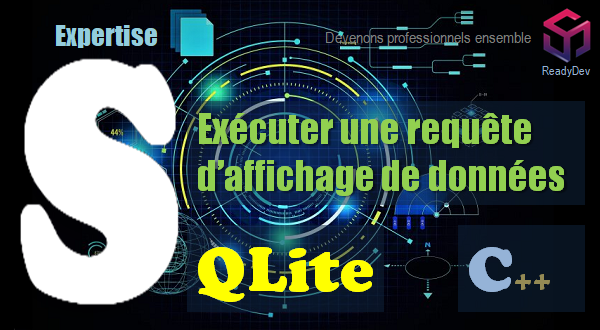
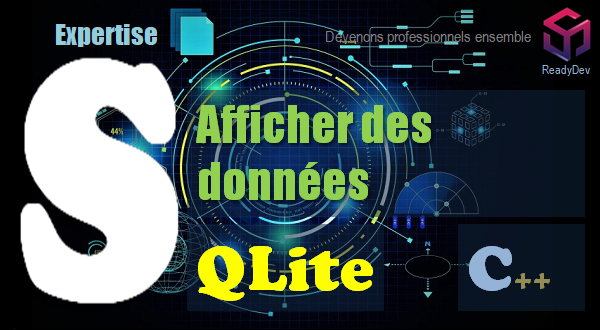
Initial Commit

diff --git a/Tutoriels/Cpp/SQLite/Show_Query/page/main.php b/Tutoriels/Cpp/SQLite/Show_Query/page/main.php
@@ -1,4 +1,4 @@
-<div class="Parallax GParallax1"><div class="Img Binary"><div class="Caption"><a href="#"><div class="Text">Exécuter une requête d'affichage de données SQLite en C++</div></a></div></div><div class="Body2 Orange">Le but de ce tutoriel est de vous apprendre à exécuter une requête d'affichage de données <b>SQLite </b>en <b>C++</b>.<br>Version Pro &amp; Industrielle. Produit par <b>Gérard KESSE</b>.<br><br><div class="Content0 GSummary1"><div class="Body0" id="Loader_1529412976174"><div class="Row26">Summary 1</div></div><script>loadSummary1("Loader_1529412976174");</script></div></div></div><br><div class="Content2 GTitle1"><div class="MainBlock2"><div class="Content"><h1 class="Title2 Center" id="Introduction"><a class="Link3" href="#">Introduction</a></h1><div class="Body3"><b>SQLite </b>est une bibliothèque écrite en langage C qui propose un moteur de base de données relationnelle accessible par le langage SQL. SQLite implémente en grande partie le standard SQL-92 et des propriétés ACID. Sa particularité est de ne pas reproduire le schéma habituel client-serveur mais d'être directement intégrée aux programmes. L'intégralité de la base de données (déclarations, tables, index et données) est stockée dans un fichier indépendant de la plateforme.<br><br><div class="Img3 GImage"><img src="/Tutoriels/Cpp/img/b_sqlite_show_query.png" alt="/Tutoriels/Cpp/img/b_sqlite_show_query.png"></div><br></div></div></div></div><br><div class="Content2 GTitle1"><div class="MainBlock2"><div class="Content"><h1 class="Title2 Center" id="Exécuter une requête d'affichage de données SQLite C++"><a class="Link3" href="#">Exécuter une requête d'affichage de données SQLite C++</a></h1><div class="Body3"><br><div class="Content0 GSummary2"><div class="Body0" id="Loader_1599250744051"><div class="Row26">Summary 2</div></div><script>loadSummary2("Loader_1599250744051");</script></div><br><h2 class="Title7 GTitle2" id="Exécuter une requête d'affichage de données SQLite C++-Introduction"><a class="Link9" href="#Exécuter une requête d'affichage de données SQLite C++">Introduction</a></h2><br>Dans l'exemple qui suit, nous essayons d'exécuter une requête d'affichage de données SQLite (CONFIG_CPP).<br><br><h2 class="Title7 GTitle2" id="Exécuter une requête d'affichage de données SQLite C++-Programme principal"><a class="Link9" href="#Exécuter une requête d'affichage de données SQLite C++">Programme principal</a></h2><br><h3 class="Title8 GTitle3">main.cpp</h3><br><div class="GCode1"><pre class="Code2"><xmp class="AceCode" data-mode="c_cpp">GSQLite::Instance()-&gt;queryShow("\
+<div class="Parallax GParallax1"><div class="Img Binary"><div class="Caption"><a href="#"><div class="Text">Afficher des données SQLite en C++</div></a></div></div><div class="Body2 Orange">Le but de ce tutoriel est de vous apprendre à afficher des données <b>SQLite </b>en <b>C++</b>.<br>Version Pro &amp; Industrielle. Produit par <b>Gérard KESSE</b>.<br><br><div class="Content0 GSummary1"><div class="Body0" id="Loader_1529412976174"><div class="Row26">Summary 1</div></div><script>loadSummary1("Loader_1529412976174");</script></div></div></div><br><div class="Content2 GTitle1"><div class="MainBlock2"><div class="Content"><h1 class="Title2 Center" id="Introduction"><a class="Link3" href="#">Introduction</a></h1><div class="Body3"><b>SQLite </b>est une bibliothèque écrite en langage C qui propose un moteur de base de données relationnelle accessible par le langage SQL. SQLite implémente en grande partie le standard SQL-92 et des propriétés ACID. Sa particularité est de ne pas reproduire le schéma habituel client-serveur mais d'être directement intégrée aux programmes. L'intégralité de la base de données (déclarations, tables, index et données) est stockée dans un fichier indépendant de la plateforme.<br><br><div class="Img3 GImage"><img src="/Tutoriels/Cpp/img/b_sqlite_show_query.png" alt="/Tutoriels/Cpp/img/b_sqlite_show_query.png"></div><br></div></div></div></div><br><div class="Content2 GTitle1"><div class="MainBlock2"><div class="Content"><h1 class="Title2 Center" id="Afficher des données SQLite C++"><a class="Link3" href="#">Afficher des données SQLite C++</a></h1><div class="Body3"><br><div class="Content0 GSummary2"><div class="Body0" id="Loader_1599250744051"><div class="Row26">Summary 2</div></div><script>loadSummary2("Loader_1599250744051");</script></div><br><h2 class="Title7 GTitle2" id="Afficher des données SQLite C++-Introduction"><a class="Link9" href="#Afficher des données SQLite C++">Introduction</a></h2><br>Dans l'exemple qui suit, nous essayons d'afficher des données SQLite (afficher les données de la table CONFIG_CPP).<br><br><h2 class="Title7 GTitle2" id="Afficher des données SQLite C++-Programme principal"><a class="Link9" href="#Afficher des données SQLite C++">Programme principal</a></h2><br><h3 class="Title8 GTitle3">main.cpp</h3><br><div class="GCode1"><pre class="Code2"><xmp class="AceCode" data-mode="c_cpp">GSQLite::Instance()-&gt;queryShow("\
 select * from CONFIG_CPP \
 order by CONFIG_KEY \
 ", 1, "20;30", "20");</xmp></pre></div><br><h3 class="Title8 GTitle3">GSQLite.cpp</h3><br><div class="GCode1"><pre class="Code2"><xmp class="AceCode" data-mode="c_cpp">//===============================================
@@ -9,14 +9,14 @@ struct _sGSQLiteShow {
     int on_sep;
     int col_count;
 };
-//===============================================</xmp></pre></div><br><h2 class="Title7 GTitle2" id="Exécuter une requête d'affichage de données SQLite C++-Affichage d'une requête"><a class="Link9" href="#Exécuter une requête d'affichage de données SQLite C++">Affichage d'une requête</a></h2><br><h3 class="Title8 GTitle3">GSQLite.cpp</h3><br><div class="GCode1"><pre class="Code2"><xmp class="AceCode" data-mode="c_cpp">//===============================================
+//===============================================</xmp></pre></div><br><h2 class="Title7 GTitle2" id="Afficher des données SQLite C++-Affichage des données"><a class="Link9" href="#Afficher des données SQLite C++">Affichage des données</a></h2><br><h3 class="Title8 GTitle3">GSQLite.cpp</h3><br><div class="GCode1"><pre class="Code2"><xmp class="AceCode" data-mode="c_cpp">//===============================================
 void GSQLite::queryShow(std::string sql, int onHeader, std::string widthMap, std::string defaultWidth) {
     sGSQLiteShow lParams = {onHeader, widthMap, defaultWidth, 1, 0};
     sqlite3* lDb = connect();
     char* lError;
     int lAns = sqlite3_exec(lDb, sql.c_str(), onShow, &lParams, &lError);
     if(lAns != SQLITE_OK) {
-        printf("[GSQLite] erreur queryShow : %s\n", sqlite3_errmsg(lDb));
+        printf("[GSQLite] error queryShow() : %s\n", sqlite3_errmsg(lDb));
         sqlite3_free(lError);
         exit(0); 
     }
@@ -32,7 +32,7 @@ void GSQLite::queryShow(std::string sql, int onHeader, std::string widthMap, std
         printf("\n");
     }
 }
-//===============================================</xmp></pre></div><br><h2 class="Title7 GTitle2" id="Exécuter une requête d'affichage de données SQLite C++-Fonction de rappel"><a class="Link9" href="#Exécuter une requête d'affichage de données SQLite C++">Fonction de rappel</a></h2><br><h3 class="Title8 GTitle3">GSQLite.cpp</h3><br><div class="GCode1"><pre class="Code2"><xmp class="AceCode" data-mode="c_cpp">//===============================================
+//===============================================</xmp></pre></div><br><h2 class="Title7 GTitle2" id="Afficher des données SQLite C++-Fonction de rappel"><a class="Link9" href="#Afficher des données SQLite C++">Fonction de rappel</a></h2><br><h3 class="Title8 GTitle3">GSQLite.cpp</h3><br><div class="GCode1"><pre class="Code2"><xmp class="AceCode" data-mode="c_cpp">//===============================================
 int GSQLite::onShow(void* params, int colCount, char** colValue, char** colName) {
     sGSQLiteShow* lParams = (sGSQLiteShow*)params;
     std::string lWidthMap = lParams-&gt;width_map;
@@ -80,4 +80,4 @@ int GSQLite::onShow(void* params, int colCount, char** colValue, char** colName)
     lParams-&gt;on_sep = 0;
     return 0;
 }
-//===============================================</xmp></pre></div><br><h2 class="Title7 GTitle2" id="Exécuter une requête d'affichage de données SQLite C++-Résultat"><a class="Link9" href="#Exécuter une requête d'affichage de données SQLite C++">Résultat</a></h2><br><div class="Img3 GImage"><img src="/Tutoriels/Cpp/img/i_sqlite_show_query.png" alt="/Tutoriels/Cpp/img/i_sqlite_show_query.png"></div><br></div></div></div></div><br><div class="Content2 GTitle1"><div class="MainBlock2"><div class="Content"><h1 class="Title2 Center" id="Voir Aussi"><a class="Link3" href="#">Voir Aussi</a></h1><div class="Body3">Dans cette même catégorie, vous pouvez consulter aussi :<br><br><span class="GColor1" style="color:lime;">Base de données SQLite</span><br><br><div class="Content0 GList1"><div class="Body0" id="Loader_1600474250946"><div class="Row26">List 1 &gt; Cpp &gt; sqlite</div></div><script>loadList1("Loader_1600474250946","Cpp","sqlite");</script></div><br></div></div></div></div><br>
+//===============================================</xmp></pre></div><br><h2 class="Title7 GTitle2" id="Afficher des données SQLite C++-Résultat"><a class="Link9" href="#Afficher des données SQLite C++">Résultat</a></h2><br><div class="Img3 GImage"><img src="/Tutoriels/Cpp/img/i_sqlite_show_query.png" alt="/Tutoriels/Cpp/img/i_sqlite_show_query.png"></div><br></div></div></div></div><br><div class="Content2 GTitle1"><div class="MainBlock2"><div class="Content"><h1 class="Title2 Center" id="Voir Aussi"><a class="Link3" href="#">Voir Aussi</a></h1><div class="Body3">Dans cette même catégorie, vous pouvez consulter aussi :<br><br><span class="GColor1" style="color:lime;">Base de données SQLite</span><br><br><div class="Content0 GList1"><div class="Body0" id="Loader_1600474250946"><div class="Row26">List 1 &gt; Cpp &gt; sqlite</div></div><script>loadList1("Loader_1600474250946","Cpp","sqlite");</script></div><br></div></div></div></div><br>

diff --git a/Tutoriels/Cpp/SQLite/Write/page/main.php b/Tutoriels/Cpp/SQLite/Write/page/main.php
@@ -1,4 +1,18 @@
-<div class="Parallax GParallax1"><div class="Img Binary"><div class="Caption"><a href="#"><div class="Text">Afficher les données d'une table SQLite en C++</div></a></div></div><div class="Body2 Orange">Le but de ce tutoriel est de vous apprendre à afficher les données d'une table <b>SQLite </b>en <b>C++</b>.<br>Version Pro &amp; Industrielle. Produit par <b>Gérard KESSE</b>.<br><br><div class="Content0 GSummary1"><div class="Body0" id="Loader_1529412976174"><div class="Row26">Summary 1</div></div><script>loadSummary1("Loader_1529412976174");</script></div></div></div><br><div class="Content2 GTitle1"><div class="MainBlock2"><div class="Content"><h1 class="Title2 Center" id="Introduction"><a class="Link3" href="#">Introduction</a></h1><div class="Body3"><b>SQLite </b>est une bibliothèque écrite en langage C qui propose un moteur de base de données relationnelle accessible par le langage SQL. SQLite implémente en grande partie le standard SQL-92 et des propriétés ACID. Sa particularité est de ne pas reproduire le schéma habituel client-serveur mais d'être directement intégrée aux programmes. L'intégralité de la base de données (déclarations, tables, index et données) est stockée dans un fichier indépendant de la plateforme.<br><br><div class="Img3 GImage"><img src="/Tutoriels/Cpp/img/b_sqlite_show.png" alt="/Tutoriels/Cpp/img/b_sqlite_show.png"></div><br></div></div></div></div><br><div class="Content2 GTitle1"><div class="MainBlock2"><div class="Content"><h1 class="Title2 Center" id="Afficher les données d'une table SQLite C++"><a class="Link3" href="#">Afficher les données d'une table SQLite C++</a></h1><div class="Body3"><br><div class="Content0 GSummary2"><div class="Body0" id="Loader_1599250744051"><div class="Row26">Summary 2</div></div><script>loadSummary2("Loader_1599250744051");</script></div><br><h2 class="Title7 GTitle2" id="Afficher les données d'une table SQLite C++-Introduction"><a class="Link9" href="#Afficher les données d'une table SQLite C++">Introduction</a></h2><br>Dans l'exemple qui suit, nous essayons d'afficher les données d'une table SQLite (CONFIG_CPP).<br><br><h2 class="Title7 GTitle2" id="Afficher les données d'une table SQLite C++-Programme principal"><a class="Link9" href="#Afficher les données d'une table SQLite C++">Programme principal</a></h2><br><h3 class="Title8 GTitle3">main.cpp</h3><br><div class="GCode1"><pre class="Code2"><xmp class="AceCode" data-mode="c_cpp">GSQLite::Instance()-&gt;queryShow("\
-select * from CONFIG_CPP \
-order by CONFIG_KEY \
-", 1, "20;30", "20");</xmp></pre></div><br><h2 class="Title7 GTitle2" id="Afficher les données d'une table SQLite C++-Résultat"><a class="Link9" href="#Afficher les données d'une table SQLite C++">Résultat</a></h2><br><div class="Img3 GImage"><img src="/Tutoriels/Cpp/img/i_sqlite_show.png" alt="/Tutoriels/Cpp/img/i_sqlite_show.png"></div><br></div></div></div></div><br><div class="Content2 GTitle1"><div class="MainBlock2"><div class="Content"><h1 class="Title2 Center" id="Voir Aussi"><a class="Link3" href="#">Voir Aussi</a></h1><div class="Body3">Dans cette même catégorie, vous pouvez consulter aussi :<br><br><span class="GColor1" style="color:lime;">Base de données SQLite</span><br><br><div class="Content0 GList1"><div class="Body0" id="Loader_1600474250946"><div class="Row26">List 1 &gt; Cpp &gt; sqlite</div></div><script>loadList1("Loader_1600474250946","Cpp","sqlite");</script></div><br></div></div></div></div><br>
+<div class="Parallax GParallax1"><div class="Img Binary"><div class="Caption"><a href="#"><div class="Text">Ecrire des données SQLite en C++</div></a></div></div><div class="Body2 Orange">Le but de ce tutoriel est de vous apprendre à écrire des données <b>SQLite </b>en <b>C++</b>.<br>Version Pro &amp; Industrielle. Produit par <b>Gérard KESSE</b>.<br><br><div class="Content0 GSummary1"><div class="Body0" id="Loader_1529412976174"><div class="Row26">Summary 1</div></div><script>loadSummary1("Loader_1529412976174");</script></div></div></div><br><div class="Content2 GTitle1"><div class="MainBlock2"><div class="Content"><h1 class="Title2 Center" id="Introduction"><a class="Link3" href="#">Introduction</a></h1><div class="Body3"><b>SQLite </b>est une bibliothèque écrite en langage C qui propose un moteur de base de données relationnelle accessible par le langage SQL. SQLite implémente en grande partie le standard SQL-92 et des propriétés ACID. Sa particularité est de ne pas reproduire le schéma habituel client-serveur mais d'être directement intégrée aux programmes. L'intégralité de la base de données (déclarations, tables, index et données) est stockée dans un fichier indépendant de la plateforme.<br><br><div class="Img3 GImage"><img src="/Tutoriels/Cpp/img/b_sqlite_write.png" alt="/Tutoriels/Cpp/img/b_sqlite_write.png"></div><br></div></div></div></div><br><div class="Content2 GTitle1"><div class="MainBlock2"><div class="Content"><h1 class="Title2 Center" id="Ecrire des données SQLite C++"><a class="Link3" href="#">Ecrire des données SQLite C++</a></h1><div class="Body3"><br><div class="Content0 GSummary2"><div class="Body0" id="Loader_1599250744051"><div class="Row26">Summary 2</div></div><script>loadSummary2("Loader_1599250744051");</script></div><br><h2 class="Title7 GTitle2" id="Ecrire des données SQLite C++-Introduction"><a class="Link9" href="#Ecrire des données SQLite C++">Introduction</a></h2><br>Dans l'exemple qui suit, nous essayons d'écrire des données SQLite (créer la table CONFIG_CPP).<br><br><h2 class="Title7 GTitle2" id="Ecrire des données SQLite C++-Programme principal"><a class="Link9" href="#Ecrire des données SQLite C++">Programme principal</a></h2><br><h3 class="Title8 GTitle3">main.cpp</h3><br><div class="GCode1"><pre class="Code2"><xmp class="AceCode" data-mode="c_cpp">GSQLite::Instance()-&gt;queryWrite("\
+create table CONFIG_CPP ( \
+CONFIG_KEY text unique not null, \
+CONFIG_VALUE text\
+)\
+");</xmp></pre></div><br><h2 class="Title7 GTitle2" id="Ecrire des données SQLite C++-Ecriture des données"><a class="Link9" href="#Ecrire des données SQLite C++">Ecriture des données</a></h2><br><h3 class="Title8 GTitle3">GSQLite.cpp</h3><br><div class="GCode1"><pre class="Code2"><xmp class="AceCode" data-mode="c_cpp">//===============================================
+void GSQLite::queryWrite(std::string sql) {
+    sqlite3* lDb = connect();
+    char* lError;
+    int lAns = sqlite3_exec(lDb, sql.c_str(), 0, 0, &lError);
+    if(lAns != SQLITE_OK) {
+        printf("[GSQLite] error queryWrite() : %s\n", sqlite3_errmsg(lDb));
+        sqlite3_free(lError);
+        exit(0); 
+    }
+    sqlite3_close(lDb);
+}
+//===============================================</xmp></pre></div><br><h2 class="Title7 GTitle2" id="Ecrire des données SQLite C++-Résultat"><a class="Link9" href="#Ecrire des données SQLite C++">Résultat</a></h2><br><div class="Img3 GImage"><img src="/Tutoriels/Cpp/img/i_sqlite_write.png" alt="/Tutoriels/Cpp/img/i_sqlite_write.png"></div><br></div></div></div></div><br><div class="Content2 GTitle1"><div class="MainBlock2"><div class="Content"><h1 class="Title2 Center" id="Voir Aussi"><a class="Link3" href="#">Voir Aussi</a></h1><div class="Body3">Dans cette même catégorie, vous pouvez consulter aussi :<br><br><span class="GColor1" style="color:lime;">Base de données SQLite</span><br><br><div class="Content0 GList1"><div class="Body0" id="Loader_1600474250946"><div class="Row26">List 1 &gt; Cpp &gt; sqlite</div></div><script>loadList1("Loader_1600474250946","Cpp","sqlite");</script></div><br></div></div></div></div><br>

diff --git a/Tutoriels/Cpp/SQLite/Value/page/main.php b/Tutoriels/Cpp/SQLite/Value/page/main.php
@@ -1,0 +1,39 @@
+<div class="Parallax GParallax1"><div class="Img Binary"><div class="Caption"><a href="#"><div class="Text">Lire une valeur de donnée SQLite en C++</div></a></div></div><div class="Body2 Orange">Le but de ce tutoriel est de vous apprendre à lire une valeur de donnée <b>SQLite </b>en <b>C++</b>.<br>Version Pro &amp; Industrielle. Produit par <b>Gérard KESSE</b>.<br><br><div class="Content0 GSummary1"><div class="Body0" id="Loader_1529412976174"><div class="Row26">Summary 1</div></div><script>loadSummary1("Loader_1529412976174");</script></div></div></div><br><div class="Content2 GTitle1"><div class="MainBlock2"><div class="Content"><h1 class="Title2 Center" id="Introduction"><a class="Link3" href="#">Introduction</a></h1><div class="Body3"><b>SQLite </b>est une bibliothèque écrite en langage C qui propose un moteur de base de données relationnelle accessible par le langage SQL. SQLite implémente en grande partie le standard SQL-92 et des propriétés ACID. Sa particularité est de ne pas reproduire le schéma habituel client-serveur mais d'être directement intégrée aux programmes. L'intégralité de la base de données (déclarations, tables, index et données) est stockée dans un fichier indépendant de la plateforme.<br><br><div class="Img3 GImage"><img src="/Tutoriels/Cpp/img/b_sqlite_value.png" alt="/Tutoriels/Cpp/img/b_sqlite_value.png"></div><br></div></div></div></div><br><div class="Content2 GTitle1"><div class="MainBlock2"><div class="Content"><h1 class="Title2 Center" id="Lire une valeur de donnée SQLite C++"><a class="Link3" href="#">Lire une valeur de donnée SQLite C++</a></h1><div class="Body3"><br><div class="Content0 GSummary2"><div class="Body0" id="Loader_1599250744051"><div class="Row26">Summary 2</div></div><script>loadSummary2("Loader_1599250744051");</script></div><br><h2 class="Title7 GTitle2" id="Lire une valeur de donnée SQLite C++-Introduction"><a class="Link9" href="#Lire une valeur de donnée SQLite C++">Introduction</a></h2><br>Dans l'exemple qui suit, nous essayons d'lire une valeur de donnée SQLite (compter les données de la table CONFIG_CPP).<br><br><h2 class="Title7 GTitle2" id="Lire une valeur de donnée SQLite C++-Programme principal"><a class="Link9" href="#Lire une valeur de donnée SQLite C++">Programme principal</a></h2><br><h3 class="Title8 GTitle3">main.cpp</h3><br><div class="GCode1"><pre class="Code2"><xmp class="AceCode" data-mode="c_cpp">std::string lData = GSQLite::Instance()-&gt;queryValue("\
+select count(*) from CONFIG_CPP \
+");</xmp></pre></div><br><h3 class="Title8 GTitle3">GSQLite.cpp</h3><br><div class="GCode1"><pre class="Code2"><xmp class="AceCode" data-mode="c_cpp">//===============================================
+struct _sGSQLiteValue {
+    std::string data;
+    int row_count;
+    int row;
+    int col;
+};
+//===============================================</xmp></pre></div><br><h2 class="Title7 GTitle2" id="Lire une valeur de donnée SQLite C++-Lecture d'une valeur de données"><a class="Link9" href="#Lire une valeur de donnée SQLite C++">Lecture d'une valeur de données</a></h2><br><h3 class="Title8 GTitle3">GSQLite.cpp</h3><br><div class="GCode1"><pre class="Code2"><xmp class="AceCode" data-mode="c_cpp">//===============================================
+std::string GSQLite::queryValue(std::string sql) {
+    sGSQLiteValue lParams = {"", 0, 0, 0};
+    sqlite3* lDb = connect();
+    char* lError;
+    int lAns = sqlite3_exec(lDb, sql.c_str(), onValue, &lParams, &lError);
+    if(lAns != SQLITE_OK) {
+        printf("[GSQLite] error queryValue() : %s\n", sqlite3_errmsg(lDb));
+        sqlite3_free(lError);
+        exit(0); 
+    }
+    sqlite3_close(lDb);
+    return lParams.data;
+}
+//===============================================</xmp></pre></div><br><h2 class="Title7 GTitle2" id="Lire une valeur de donnée SQLite C++-Fonction de rappel"><a class="Link9" href="#Lire une valeur de donnée SQLite C++">Fonction de rappel</a></h2><br><h3 class="Title8 GTitle3">GSQLite.cpp</h3><br><div class="GCode1"><pre class="Code2"><xmp class="AceCode" data-mode="c_cpp">//===============================================
+int GSQLite::onValue(void* params, int colCount, char** colValue, char** colName) {
+    sGSQLiteValue* lParams = (sGSQLiteValue*)params;
+    if(lParams-&gt;row_count == lParams-&gt;row) {
+        for(int i = 0; i &lt; colCount; i++) {
+            if(i == lParams-&gt;col) {
+                const char* lCoValue = colValue[i] ? colValue[i] : "NULL";
+                lParams-&gt;data = lCoValue;
+                break;
+            }
+        }
+    }
+    lParams-&gt;row_count++;
+    return 0;
+}
+//===============================================</xmp></pre></div><br><h2 class="Title7 GTitle2" id="Lire une valeur de donnée SQLite C++-Résultat"><a class="Link9" href="#Lire une valeur de donnée SQLite C++">Résultat</a></h2><br><div class="Img3 GImage"><img src="/Tutoriels/Cpp/img/i_sqlite_value.png" alt="/Tutoriels/Cpp/img/i_sqlite_value.png"></div><br></div></div></div></div><br><div class="Content2 GTitle1"><div class="MainBlock2"><div class="Content"><h1 class="Title2 Center" id="Voir Aussi"><a class="Link3" href="#">Voir Aussi</a></h1><div class="Body3">Dans cette même catégorie, vous pouvez consulter aussi :<br><br><span class="GColor1" style="color:lime;">Base de données SQLite</span><br><br><div class="Content0 GList1"><div class="Body0" id="Loader_1600474250946"><div class="Row26">List 1 &gt; Cpp &gt; sqlite</div></div><script>loadList1("Loader_1600474250946","Cpp","sqlite");</script></div><br></div></div></div></div><br>

diff --git a/Tutoriels/Cpp/SQLite/Row/page/main.php b/Tutoriels/Cpp/SQLite/Row/page/main.php
@@ -1,0 +1,36 @@
+<div class="Parallax GParallax1"><div class="Img Binary"><div class="Caption"><a href="#"><div class="Text">Lire une ligne de données SQLite en C++</div></a></div></div><div class="Body2 Orange">Le but de ce tutoriel est de vous apprendre à lire une ligne de données <b>SQLite </b>en <b>C++</b>.<br>Version Pro &amp; Industrielle. Produit par <b>Gérard KESSE</b>.<br><br><div class="Content0 GSummary1"><div class="Body0" id="Loader_1529412976174"><div class="Row26">Summary 1</div></div><script>loadSummary1("Loader_1529412976174");</script></div></div></div><br><div class="Content2 GTitle1"><div class="MainBlock2"><div class="Content"><h1 class="Title2 Center" id="Introduction"><a class="Link3" href="#">Introduction</a></h1><div class="Body3"><b>SQLite </b>est une bibliothèque écrite en langage C qui propose un moteur de base de données relationnelle accessible par le langage SQL. SQLite implémente en grande partie le standard SQL-92 et des propriétés ACID. Sa particularité est de ne pas reproduire le schéma habituel client-serveur mais d'être directement intégrée aux programmes. L'intégralité de la base de données (déclarations, tables, index et données) est stockée dans un fichier indépendant de la plateforme.<br><br><div class="Img3 GImage"><img src="/Tutoriels/Cpp/img/b_sqlite_row.png" alt="/Tutoriels/Cpp/img/b_sqlite_row.png"></div><br></div></div></div></div><br><div class="Content2 GTitle1"><div class="MainBlock2"><div class="Content"><h1 class="Title2 Center" id="Lire une ligne de données SQLite C++"><a class="Link3" href="#">Lire une ligne de données SQLite C++</a></h1><div class="Body3"><br><div class="Content0 GSummary2"><div class="Body0" id="Loader_1599250744051"><div class="Row26">Summary 2</div></div><script>loadSummary2("Loader_1599250744051");</script></div><br><h2 class="Title7 GTitle2" id="Lire une ligne de données SQLite C++-Introduction"><a class="Link9" href="#Lire une ligne de données SQLite C++">Introduction</a></h2><br>Dans l'exemple qui suit, nous essayons d'lire une ligne de données SQLite (lire une ligne de la table CONFIG_CPP).<br><br><h2 class="Title7 GTitle2" id="Lire une ligne de données SQLite C++-Programme principal"><a class="Link9" href="#Lire une ligne de données SQLite C++">Programme principal</a></h2><br><h3 class="Title8 GTitle3">main.cpp</h3><br><div class="GCode1"><pre class="Code2"><xmp class="AceCode" data-mode="c_cpp">std::vector&lt;std::string&gt; lData = GSQLite::Instance()-&gt;queryRow("\
+select * from CONFIG_CPP \
+where CONFIG_KEY = 'G_SQLITE_ID' \
+");</xmp></pre></div><br><h3 class="Title8 GTitle3">GSQLite.cpp</h3><br><div class="GCode1"><pre class="Code2"><xmp class="AceCode" data-mode="c_cpp">//===============================================
+struct _sGSQLiteRow {
+    std::vector&lt;std::string&gt; data;
+    int row_count;
+    int row;
+};
+//===============================================</xmp></pre></div><br><h2 class="Title7 GTitle2" id="Lire une ligne de données SQLite C++-Lecture d'une ligne de données"><a class="Link9" href="#Lire une ligne de données SQLite C++">Lecture d'une ligne de données</a></h2><br><h3 class="Title8 GTitle3">GSQLite.cpp</h3><br><div class="GCode1"><pre class="Code2"><xmp class="AceCode" data-mode="c_cpp">//===============================================
+std::vector&lt;std::string&gt; GSQLite::queryRow(std::string sql) {
+    sGSQLiteRow lParams; lParams.row_count = 0; lParams.row = 0;
+    sqlite3* lDb = connect();
+    char* lError;
+    int lAns = sqlite3_exec(lDb, sql.c_str(), onRow, &lParams, &lError);
+    if(lAns != SQLITE_OK) {
+        printf("[GSQLite] error queryRow() : %s\n", sqlite3_errmsg(lDb));
+        sqlite3_free(lError);
+        exit(0); 
+    }
+    sqlite3_close(lDb);
+    return lParams.data;
+}
+//===============================================</xmp></pre></div><br><h2 class="Title7 GTitle2" id="Lire une ligne de données SQLite C++-Fonction de rappel"><a class="Link9" href="#Lire une ligne de données SQLite C++">Fonction de rappel</a></h2><br><h3 class="Title8 GTitle3">GSQLite.cpp</h3><br><div class="GCode1"><pre class="Code2"><xmp class="AceCode" data-mode="c_cpp">//===============================================
+int GSQLite::onRow(void* params, int colCount, char** colValue, char** colName) {
+    sGSQLiteRow* lParams = (sGSQLiteRow*)params;
+    if(lParams-&gt;row_count == lParams-&gt;row) {
+        for(int i = 0; i &lt; colCount; i++) {
+            const char* lCoValue = colValue[i] ? colValue[i] : "NULL";
+            lParams-&gt;data.push_back(lCoValue);
+        }
+    }
+    lParams-&gt;row_count++;
+    return 0;
+}
+//===============================================</xmp></pre></div><br><h2 class="Title7 GTitle2" id="Lire une ligne de données SQLite C++-Résultat"><a class="Link9" href="#Lire une ligne de données SQLite C++">Résultat</a></h2><br><div class="Img3 GImage"><img src="/Tutoriels/Cpp/img/i_sqlite_row.png" alt="/Tutoriels/Cpp/img/i_sqlite_row.png"></div><br></div></div></div></div><br><div class="Content2 GTitle1"><div class="MainBlock2"><div class="Content"><h1 class="Title2 Center" id="Voir Aussi"><a class="Link3" href="#">Voir Aussi</a></h1><div class="Body3">Dans cette même catégorie, vous pouvez consulter aussi :<br><br><span class="GColor1" style="color:lime;">Base de données SQLite</span><br><br><div class="Content0 GList1"><div class="Body0" id="Loader_1600474250946"><div class="Row26">List 1 &gt; Cpp &gt; sqlite</div></div><script>loadList1("Loader_1600474250946","Cpp","sqlite");</script></div><br></div></div></div></div><br>

diff --git a/Tutoriels/Cpp/SQLite/Map/page/main.php b/Tutoriels/Cpp/SQLite/Map/page/main.php
@@ -1,0 +1,32 @@
+<div class="Parallax GParallax1"><div class="Img Binary"><div class="Caption"><a href="#"><div class="Text">Lire une matrice de données SQLite en C++</div></a></div></div><div class="Body2 Orange">Le but de ce tutoriel est de vous apprendre à lire une matrice de données <b>SQLite </b>en <b>C++</b>.<br>Version Pro &amp; Industrielle. Produit par <b>Gérard KESSE</b>.<br><br><div class="Content0 GSummary1"><div class="Body0" id="Loader_1529412976174"><div class="Row26">Summary 1</div></div><script>loadSummary1("Loader_1529412976174");</script></div></div></div><br><div class="Content2 GTitle1"><div class="MainBlock2"><div class="Content"><h1 class="Title2 Center" id="Introduction"><a class="Link3" href="#">Introduction</a></h1><div class="Body3"><b>SQLite </b>est une bibliothèque écrite en langage C qui propose un moteur de base de données relationnelle accessible par le langage SQL. SQLite implémente en grande partie le standard SQL-92 et des propriétés ACID. Sa particularité est de ne pas reproduire le schéma habituel client-serveur mais d'être directement intégrée aux programmes. L'intégralité de la base de données (déclarations, tables, index et données) est stockée dans un fichier indépendant de la plateforme.<br><br><div class="Img3 GImage"><img src="/Tutoriels/Cpp/img/b_sqlite_map.png" alt="/Tutoriels/Cpp/img/b_sqlite_map.png"></div><br></div></div></div></div><br><div class="Content2 GTitle1"><div class="MainBlock2"><div class="Content"><h1 class="Title2 Center" id="Lire une matrice de données SQLite C++"><a class="Link3" href="#">Lire une matrice de données SQLite C++</a></h1><div class="Body3"><br><div class="Content0 GSummary2"><div class="Body0" id="Loader_1599250744051"><div class="Row26">Summary 2</div></div><script>loadSummary2("Loader_1599250744051");</script></div><br><h2 class="Title7 GTitle2" id="Lire une matrice de données SQLite C++-Introduction"><a class="Link9" href="#Lire une matrice de données SQLite C++">Introduction</a></h2><br>Dans l'exemple qui suit, nous essayons d'lire une matrice de données SQLite (lire les données de la tables CONFIG_CPP).<br><br><h2 class="Title7 GTitle2" id="Lire une matrice de données SQLite C++-Programme principal"><a class="Link9" href="#Lire une matrice de données SQLite C++">Programme principal</a></h2><br><h3 class="Title8 GTitle3">main.cpp</h3><br><div class="GCode1"><pre class="Code2"><xmp class="AceCode" data-mode="c_cpp">std::vector&lt;std::vector&lt;std::string&gt;&gt; lData = GSQLite::Instance()-&gt;queryMap("\
+select * from CONFIG_CPP \
+");</xmp></pre></div><br><h3 class="Title8 GTitle3">GSQLite.cpp</h3><br><div class="GCode1"><pre class="Code2"><xmp class="AceCode" data-mode="c_cpp">//===============================================
+struct _sGSQLiteMap {
+    std::vector&lt;std::vector&lt;std::string&gt;&gt; data;
+};
+//===============================================</xmp></pre></div><br><h2 class="Title7 GTitle2" id="Lire une matrice de données SQLite C++-Lecture d'une matrice de données"><a class="Link9" href="#Lire une matrice de données SQLite C++">Lecture d'une matrice de données</a></h2><br><h3 class="Title8 GTitle3">GSQLite.cpp</h3><br><div class="GCode1"><pre class="Code2"><xmp class="AceCode" data-mode="c_cpp">//===============================================
+std::vector&lt;std::vector&lt;std::string&gt;&gt; GSQLite::queryMap(std::string sql) {
+    sGSQLiteMap lParams;
+    sqlite3* lDb = connect();
+    char* lError;
+    int lAns = sqlite3_exec(lDb, sql.c_str(), onMap, &lParams, &lError);
+    if(lAns != SQLITE_OK) {
+        printf("[GSQLite] error queryMap() : %s\n", sqlite3_errmsg(lDb));
+        sqlite3_free(lError);
+        exit(0); 
+    }
+    sqlite3_close(lDb);
+    return lParams.data;
+}
+//===============================================</xmp></pre></div><br><h2 class="Title7 GTitle2" id="Lire une matrice de données SQLite C++-Fonction de rappel"><a class="Link9" href="#Lire une matrice de données SQLite C++">Fonction de rappel</a></h2><br><h3 class="Title8 GTitle3">GSQLite.cpp</h3><br><div class="GCode1"><pre class="Code2"><xmp class="AceCode" data-mode="c_cpp">//===============================================
+int GSQLite::onMap(void* params, int colCount, char** colValue, char** colName) {
+    sGSQLiteMap* lParams = (sGSQLiteMap*)params;
+    std::vector&lt;std::string&gt; lData;
+    for(int i = 0; i &lt; colCount; i++) {
+        const char* lCoValue = colValue[i] ? colValue[i] : "NULL";
+        lData.push_back(lCoValue);
+    }
+    lParams-&gt;data.push_back(lData);
+    return 0;
+}
+//===============================================</xmp></pre></div><br><h2 class="Title7 GTitle2" id="Lire une matrice de données SQLite C++-Résultat"><a class="Link9" href="#Lire une matrice de données SQLite C++">Résultat</a></h2><br><div class="Img3 GImage"><img src="/Tutoriels/Cpp/img/i_sqlite_map.png" alt="/Tutoriels/Cpp/img/i_sqlite_map.png"></div><br></div></div></div></div><br><div class="Content2 GTitle1"><div class="MainBlock2"><div class="Content"><h1 class="Title2 Center" id="Voir Aussi"><a class="Link3" href="#">Voir Aussi</a></h1><div class="Body3">Dans cette même catégorie, vous pouvez consulter aussi :<br><br><span class="GColor1" style="color:lime;">Base de données SQLite</span><br><br><div class="Content0 GList1"><div class="Body0" id="Loader_1600474250946"><div class="Row26">List 1 &gt; Cpp &gt; sqlite</div></div><script>loadList1("Loader_1600474250946","Cpp","sqlite");</script></div><br></div></div></div></div><br>

diff --git a/Tutoriels/Cpp/SQLite/Column/page/main.php b/Tutoriels/Cpp/SQLite/Column/page/main.php
@@ -1,0 +1,34 @@
+<div class="Parallax GParallax1"><div class="Img Binary"><div class="Caption"><a href="#"><div class="Text">Lire une colonne de données SQLite en C++</div></a></div></div><div class="Body2 Orange">Le but de ce tutoriel est de vous apprendre à lire une colonne de données <b>SQLite </b>en <b>C++</b>.<br>Version Pro &amp; Industrielle. Produit par <b>Gérard KESSE</b>.<br><br><div class="Content0 GSummary1"><div class="Body0" id="Loader_1529412976174"><div class="Row26">Summary 1</div></div><script>loadSummary1("Loader_1529412976174");</script></div></div></div><br><div class="Content2 GTitle1"><div class="MainBlock2"><div class="Content"><h1 class="Title2 Center" id="Introduction"><a class="Link3" href="#">Introduction</a></h1><div class="Body3"><b>SQLite </b>est une bibliothèque écrite en langage C qui propose un moteur de base de données relationnelle accessible par le langage SQL. SQLite implémente en grande partie le standard SQL-92 et des propriétés ACID. Sa particularité est de ne pas reproduire le schéma habituel client-serveur mais d'être directement intégrée aux programmes. L'intégralité de la base de données (déclarations, tables, index et données) est stockée dans un fichier indépendant de la plateforme.<br><br><div class="Img3 GImage"><img src="/Tutoriels/Cpp/img/b_sqlite_column.png" alt="/Tutoriels/Cpp/img/b_sqlite_column.png"></div><br></div></div></div></div><br><div class="Content2 GTitle1"><div class="MainBlock2"><div class="Content"><h1 class="Title2 Center" id="Lire une colonne de données SQLite C++"><a class="Link3" href="#">Lire une colonne de données SQLite C++</a></h1><div class="Body3"><br><div class="Content0 GSummary2"><div class="Body0" id="Loader_1599250744051"><div class="Row26">Summary 2</div></div><script>loadSummary2("Loader_1599250744051");</script></div><br><h2 class="Title7 GTitle2" id="Lire une colonne de données SQLite C++-Introduction"><a class="Link9" href="#Lire une colonne de données SQLite C++">Introduction</a></h2><br>Dans l'exemple qui suit, nous essayons de lire une colonne de données SQLite (lire les clés de la table CONFIG_CPP).<br><br><h2 class="Title7 GTitle2" id="Lire une colonne de données SQLite C++-Programme principal"><a class="Link9" href="#Lire une colonne de données SQLite C++">Programme principal</a></h2><br><h3 class="Title8 GTitle3">main.cpp</h3><br><div class="GCode1"><pre class="Code2"><xmp class="AceCode" data-mode="c_cpp">std::vector&lt;std::string&gt; lData = GSQLite::Instance()-&gt;queryCol("\
+select CONFIG_KEY from CONFIG_CPP \
+");</xmp></pre></div><br><h3 class="Title8 GTitle3">GSQLite.cpp</h3><br><div class="GCode1"><pre class="Code2"><xmp class="AceCode" data-mode="c_cpp">//===============================================
+struct _sGSQLiteCol {
+    std::vector&lt;std::string&gt; data;
+    int col;
+};
+//===============================================</xmp></pre></div><br><h2 class="Title7 GTitle2" id="Lire une colonne de données SQLite C++-Lecture d'une colonne de données"><a class="Link9" href="#Lire une colonne de données SQLite C++">Lecture d'une colonne de données</a></h2><br><h3 class="Title8 GTitle3">GSQLite.cpp</h3><br><div class="GCode1"><pre class="Code2"><xmp class="AceCode" data-mode="c_cpp">//===============================================
+std::vector&lt;std::string&gt; GSQLite::queryCol(std::string sql) {
+    sGSQLiteCol lParams; lParams.col = 0;
+    sqlite3* lDb = connect();
+    char* lError;
+    int lAns = sqlite3_exec(lDb, sql.c_str(), onCol, &lParams, &lError);
+    if(lAns != SQLITE_OK) {
+        printf("[GSQLite] error queryCol() : %s\n", sqlite3_errmsg(lDb));
+        sqlite3_free(lError);
+        exit(0); 
+    }
+    sqlite3_close(lDb);
+    return lParams.data;
+}
+//===============================================</xmp></pre></div><br><h2 class="Title7 GTitle2" id="Lire une colonne de données SQLite C++-Fonction de rappel"><a class="Link9" href="#Lire une colonne de données SQLite C++">Fonction de rappel</a></h2><br><h3 class="Title8 GTitle3">GSQLite.cpp</h3><br><div class="GCode1"><pre class="Code2"><xmp class="AceCode" data-mode="c_cpp">//===============================================
+int GSQLite::onCol(void* params, int colCount, char** colValue, char** colName) {
+    sGSQLiteCol* lParams = (sGSQLiteCol*)params;
+    for(int i = 0; i &lt; colCount; i++) {
+        if(i == lParams-&gt;col) {
+            const char* lCoValue = colValue[i] ? colValue[i] : "NULL";
+            lParams-&gt;data.push_back(lCoValue);
+            break;
+        }
+    }
+    return 0;
+}
+//===============================================</xmp></pre></div><br><h2 class="Title7 GTitle2" id="Lire une colonne de données SQLite C++-Résultat"><a class="Link9" href="#Lire une colonne de données SQLite C++">Résultat</a></h2><br><div class="Img3 GImage"><img src="/Tutoriels/Cpp/img/i_sqlite_column.png" alt="/Tutoriels/Cpp/img/i_sqlite_column.png"></div><br></div></div></div></div><br><div class="Content2 GTitle1"><div class="MainBlock2"><div class="Content"><h1 class="Title2 Center" id="Voir Aussi"><a class="Link3" href="#">Voir Aussi</a></h1><div class="Body3">Dans cette même catégorie, vous pouvez consulter aussi :<br><br><span class="GColor1" style="color:lime;">Base de données SQLite</span><br><br><div class="Content0 GList1"><div class="Body0" id="Loader_1600474250946"><div class="Row26">List 1 &gt; Cpp &gt; sqlite</div></div><script>loadList1("Loader_1600474250946","Cpp","sqlite");</script></div><br></div></div></div></div><br>

diff --git a/Tutoriels/Cpp/SQLite/Column/index.php b/Tutoriels/Cpp/SQLite/Column/index.php
@@ -1,11 +1,11 @@
 <?php
     require $_SERVER["DOCUMENT_ROOT"]."/php/class/GAutoloadRegister.php";
     
-    $m_data = GJson::Instance()->getData("data/json/Cpp_SQLite_Write.json");
+    $m_data = GJson::Instance()->getData("data/json/Cpp_SQLite_Column.json");
     
-    GConfig::Instance()->setData("title", "C++ - SQLite - Ecrire des données");
+    GConfig::Instance()->setData("title", "C++ - SQLite - Lire une colonne de données");
     GConfig::Instance()->setData("menu", "Tutoriels");
-    GConfig::Instance()->setData("view", "Cpp_SQLite_Write");
+    GConfig::Instance()->setData("view", "Cpp_SQLite_Column");
     GConfig::Instance()->setData("link", $m_data["links"]);
 
     require $_SERVER["DOCUMENT_ROOT"]."/php/header.php";

diff --git a/Tutoriels/Cpp/SQLite/Value/index.php b/Tutoriels/Cpp/SQLite/Value/index.php
@@ -1,11 +1,11 @@
 <?php
     require $_SERVER["DOCUMENT_ROOT"]."/php/class/GAutoloadRegister.php";
     
-    $m_data = GJson::Instance()->getData("data/json/Cpp_SQLite_Write.json");
+    $m_data = GJson::Instance()->getData("data/json/Cpp_SQLite_Value.json");
     
-    GConfig::Instance()->setData("title", "C++ - SQLite - Ecrire des données");
+    GConfig::Instance()->setData("title", "C++ - SQLite - Lire une valeur de donnée");
     GConfig::Instance()->setData("menu", "Tutoriels");
-    GConfig::Instance()->setData("view", "Cpp_SQLite_Write");
+    GConfig::Instance()->setData("view", "Cpp_SQLite_Value");
     GConfig::Instance()->setData("link", $m_data["links"]);
 
     require $_SERVER["DOCUMENT_ROOT"]."/php/header.php";

diff --git a/Tutoriels/Cpp/SQLite/Map/index.php b/Tutoriels/Cpp/SQLite/Map/index.php
@@ -1,11 +1,11 @@
 <?php
     require $_SERVER["DOCUMENT_ROOT"]."/php/class/GAutoloadRegister.php";
     
-    $m_data = GJson::Instance()->getData("data/json/Cpp_SQLite_Write.json");
+    $m_data = GJson::Instance()->getData("data/json/Cpp_SQLite_Map.json");
     
-    GConfig::Instance()->setData("title", "C++ - SQLite - Ecrire des données");
+    GConfig::Instance()->setData("title", "C++ - SQLite - Lire une matrice de données");
     GConfig::Instance()->setData("menu", "Tutoriels");
-    GConfig::Instance()->setData("view", "Cpp_SQLite_Write");
+    GConfig::Instance()->setData("view", "Cpp_SQLite_Map");
     GConfig::Instance()->setData("link", $m_data["links"]);
 
     require $_SERVER["DOCUMENT_ROOT"]."/php/header.php";

diff --git a/Tutoriels/Cpp/SQLite/Row/index.php b/Tutoriels/Cpp/SQLite/Row/index.php
@@ -1,11 +1,11 @@
 <?php
     require $_SERVER["DOCUMENT_ROOT"]."/php/class/GAutoloadRegister.php";
     
-    $m_data = GJson::Instance()->getData("data/json/Cpp_SQLite_Write.json");
+    $m_data = GJson::Instance()->getData("data/json/Cpp_SQLite_Row.json");
     
-    GConfig::Instance()->setData("title", "C++ - SQLite - Ecrire des données");
+    GConfig::Instance()->setData("title", "C++ - SQLite - Lire une ligne de données");
     GConfig::Instance()->setData("menu", "Tutoriels");
-    GConfig::Instance()->setData("view", "Cpp_SQLite_Write");
+    GConfig::Instance()->setData("view", "Cpp_SQLite_Row");
     GConfig::Instance()->setData("link", $m_data["links"]);
 
     require $_SERVER["DOCUMENT_ROOT"]."/php/header.php";

diff --git a/Tutoriels/Cpp/SQLite/Show_Query/index.php b/Tutoriels/Cpp/SQLite/Show_Query/index.php
@@ -3,7 +3,7 @@
     
     $m_data = GJson::Instance()->getData("data/json/Cpp_SQLite_Show_Query.json");
     
-    GConfig::Instance()->setData("title", "C++ - SQLite - Exécuter une requête d'affichage de données");
+    GConfig::Instance()->setData("title", "C++ - SQLite - Afficher des données");
     GConfig::Instance()->setData("menu", "Tutoriels");
     GConfig::Instance()->setData("view", "Cpp_SQLite_Show_Query");
     GConfig::Instance()->setData("link", $m_data["links"]);

diff --git a/Tutoriels/Cpp/SQLite/Connect/page/main.php b/Tutoriels/Cpp/SQLite/Connect/page/main.php
@@ -4,7 +4,7 @@ sqlite3* GSQLite::connect() {
     sqlite3* lDb;
     int lAns = sqlite3_open(lSqlite-&gt;db_path.c_str(), &lDb);
     if(lAns != SQLITE_OK) {
-        printf("[GSQLite] erreur connect : %s\n", sqlite3_errmsg(lDb));
+        printf("[GSQLite] error connect() : %s\n", sqlite3_errmsg(lDb));
         printf("[GSQLite] %s\n", lSqlite-&gt;db_path.c_str());
         exit(0); 
     }
